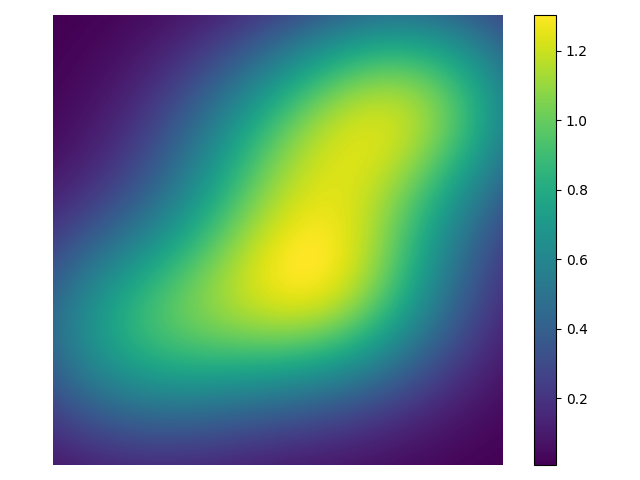
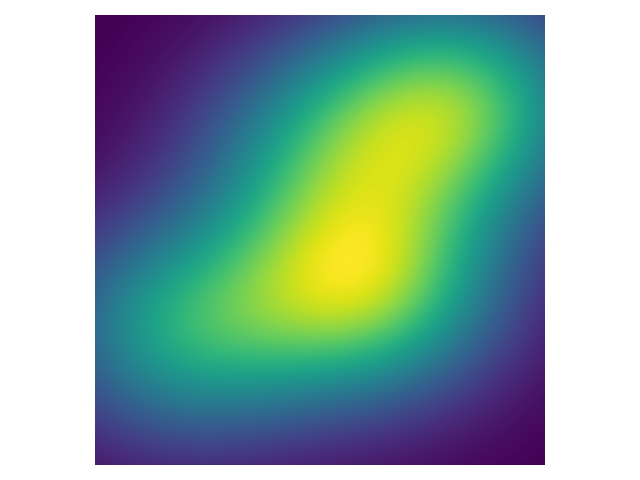
final export

diff --git a/homework/hw07/smooth.py b/homework/hw07/smooth.py
@@ -15,10 +15,10 @@ def main():
     N = 512
     os.makedirs("images", exist_ok=True)
     plt.axis("off")
-    s = plt.imshow(aomip.smooth(N))
-    plt.colorbar(s)
+    s = aomip.smooth(N)
+    plt.imshow(s)
     plt.tight_layout()
-    plt.savefig("smooth.png")
+    plt.savefig("smooth.png", transparent=True)
 
 
 if __name__ == "__main__":
